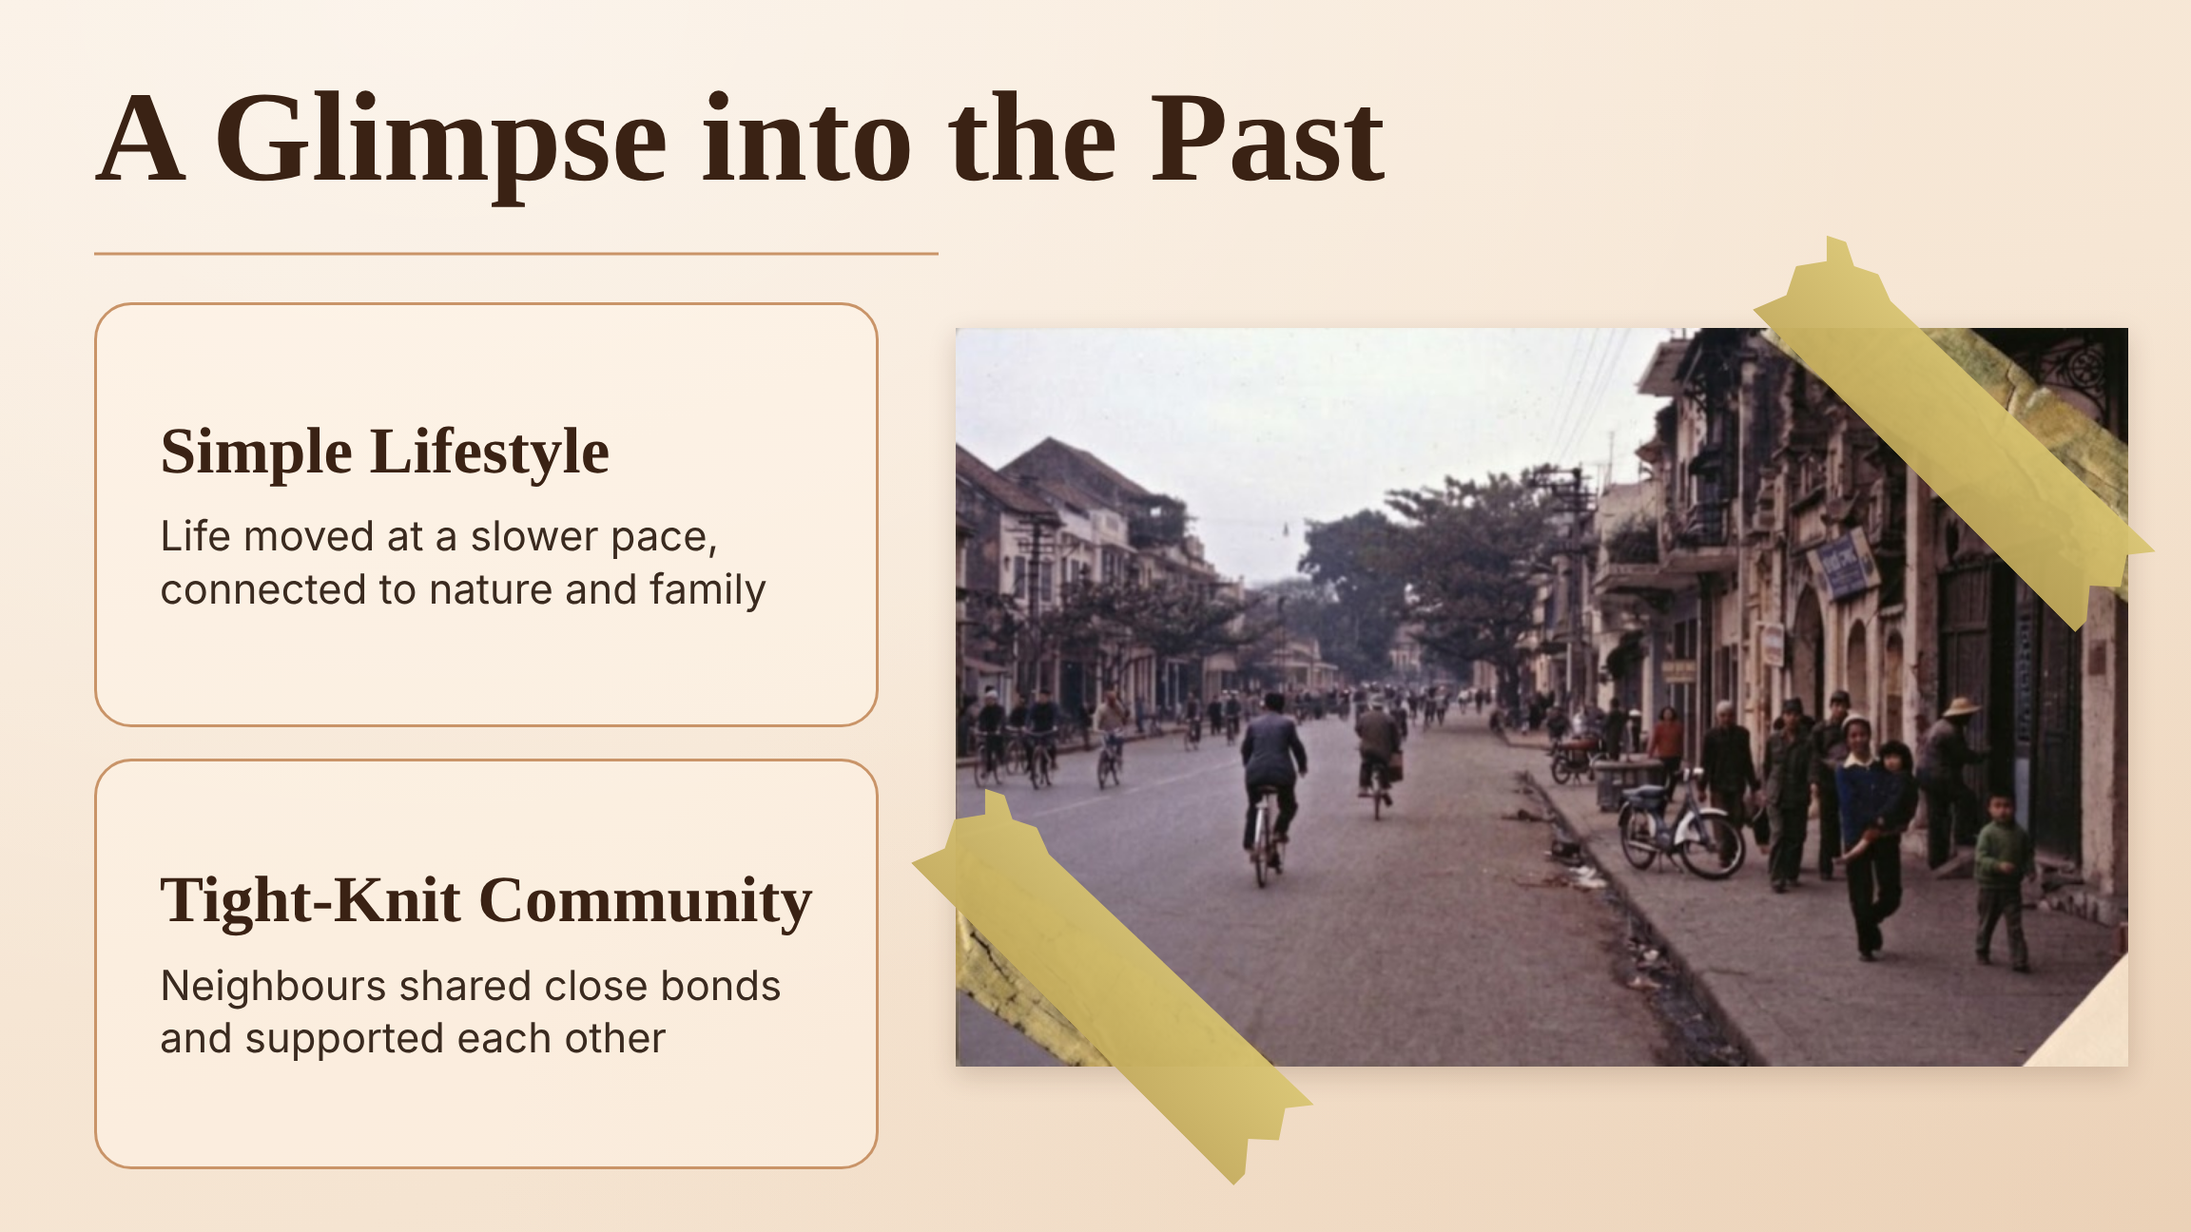
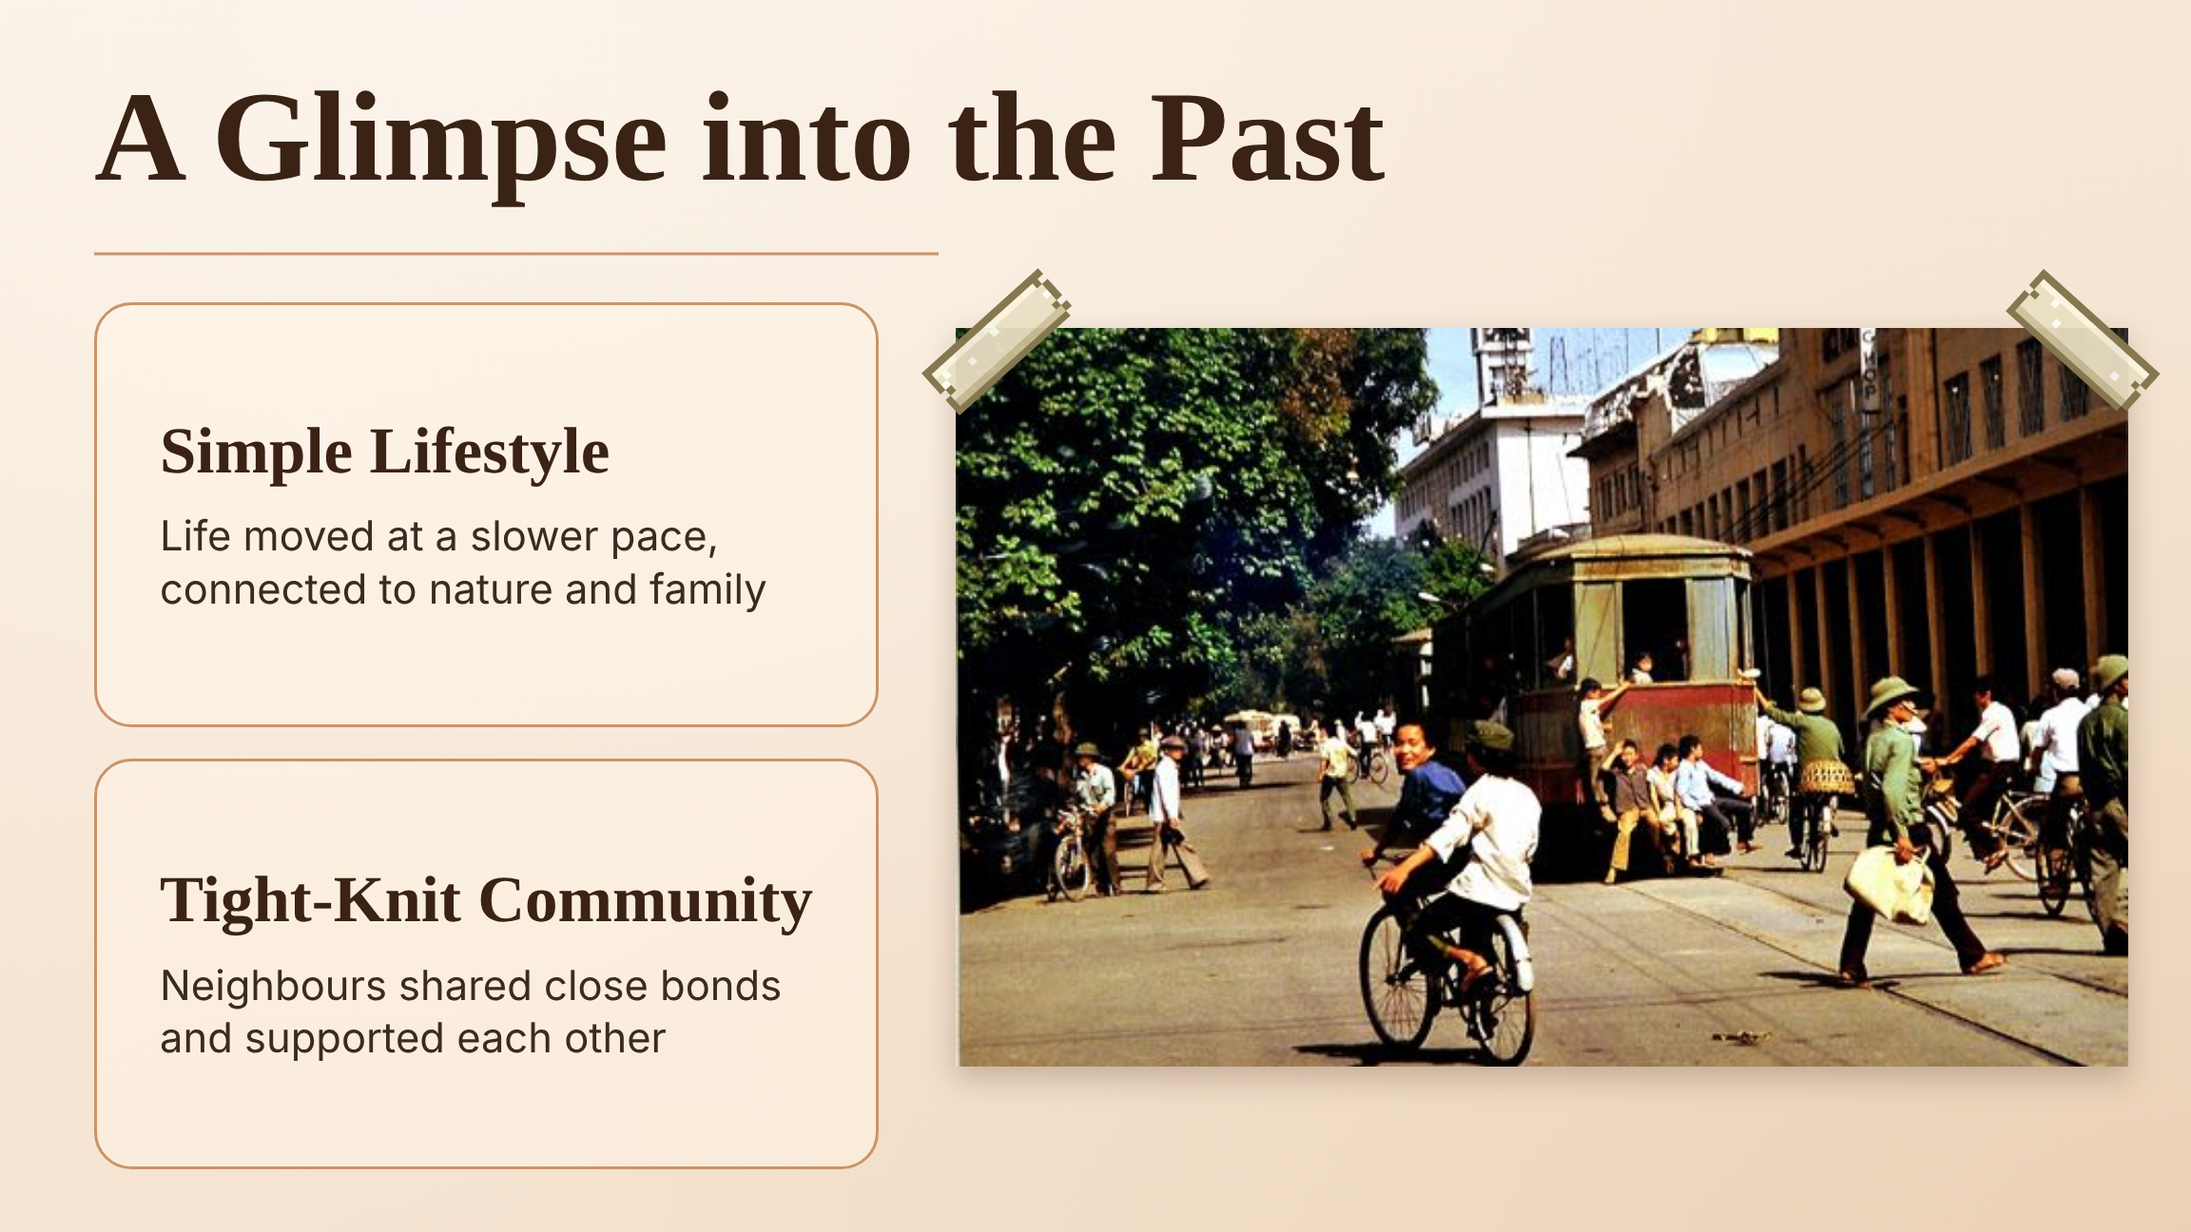
Rework slide 3: tram photo, two pixel tapes, gentle wind sway
Use the clean tram photo (the old crop had tape baked into the image).
The photo hangs from two pixel-art tape pieces at its top corners and
sways slowly sideways with a soft damped spring, pushed by gusts of wind.
Each gust sends pixel wind streaks, swirls and green leaves across the
slide. Wind lines stay off the title band. Tape drawing is shared via
tape.js; the static slide3.png is re-rendered to match, and render.js
gains SLIDES=3,4 to export only some slides.

Claude-Session: https://claude.ai/code/session_01H8rafyWhTAXuL5wghymvJo

diff --git a/slide3-anim.html b/slide3-anim.html
@@ -10,36 +10,33 @@
   <link rel="stylesheet" href="slides.css">
   <style>
     body { background: #1b1412; padding: 16px; }
-    .deck { zoom: var(--zoom); }
-    /* Khung ảnh: xoay quanh điểm treo phía trên (tape giữ). Tape và ảnh cùng nằm trong .pic */
-    .pic { position: absolute; left: 670px; top: 230px; width: 822px; height: 518px; transform-origin: 50% 0; will-change: transform; }
-    .pic .photo { position: absolute; inset: 0; box-shadow: 0 10px 22px rgba(60,30,10,.28); }
-    .pic .photo img { width: 100%; height: 100%; object-fit: cover; display: block; }
-    .ptape { position: absolute; image-rendering: pixelated; transform-origin: 50% 50%; }
-    #tapeTL { left: 26px; top: -20px; }
-    #tapeTR { right: 26px; top: -20px; transform: rotate(38deg); }
-    #tapeBL { left: 6px; top: 470px; transform: rotate(-28deg); }
+    .deck { zoom: var(--zoom); position: relative; }
+    .pic { will-change: transform; }
+    #wind { position: absolute; left: 0; top: 0; width: 1536px; height: 864px; pointer-events: none; z-index: 5; image-rendering: pixelated; }
   </style>
 </head>
 <body>
-<main class="deck" style="position:relative">
+<main class="deck">
   <section class="slide s3" id="slide3">
     <h2 class="title">A Glimpse into the Past</h2>
     <hr class="rule">
     <article class="card c1"><h3>Simple Lifestyle</h3><p>Life moved at a slower pace, connected to nature and family</p></article>
     <article class="card c2"><h3>Tight-Knit Community</h3><p>Neighbours shared close bonds and supported each other</p></article>
 
+    <!-- Ảnh dán bằng 2 miếng keo ở 2 góc trên; gió thổi làm ảnh đung đưa nhẹ -->
     <div class="pic" id="pic">
-      <figure class="photo"><img src="assets/s3-street.jpg" alt="Old street with bicycles"></figure>
-      <canvas class="ptape" id="tapeTL" width="150" height="48"></canvas>
-      <canvas class="ptape" id="tapeTR" width="150" height="48"></canvas>
-      <canvas class="ptape" id="tapeBL" width="150" height="48"></canvas>
+      <figure class="photo"><img src="assets/s3-tram.jpg" alt="Tram and bicycles on an old street"></figure>
+      <canvas class="ptape tl" width="120" height="40"></canvas>
+      <canvas class="ptape tr" width="120" height="40"></canvas>
     </div>
+
+    <canvas id="wind" width="1536" height="864"></canvas>
   </section>
 </main>
 
+<script src="tape.js"></script>
 <script>
-  // Vừa khung màn hình như slides.html
+  // ---------- Khung hiển thị ----------
   const EMBED = location.search.includes('embed');   // chế độ nhúng trong index.html: phủ kín khung
   const fit = () => {
     if (EMBED) {
@@ -50,94 +47,120 @@
     }
     document.documentElement.style.setProperty('--zoom', Math.min(1, (innerWidth - 32) / 1536));
   };
-  if (EMBED) { document.body.style.cssText = 'background:transparent;padding:0;overflow:hidden'; }
+  if (EMBED) document.body.style.cssText = 'background:transparent;padding:0;overflow:hidden';
   addEventListener('resize', fit); fit();
 
-  // ---- Tape kiểu pixel: vẽ bằng ô vuông lớn, mép răng cưa ----
-  function drawPixelTape(cv, seed) {
-    const g = cv.getContext('2d');
-    const W = cv.width, H = cv.height, C = 6;           // C = kích thước 1 pixel
-    let r = seed;
-    const rnd = () => (r = (r * 16807) % 2147483647) / 2147483647;
-    g.clearRect(0, 0, W, H);
-    for (let y = 0; y < H; y += C) {
-      const edge = 1 + Math.floor(rnd() * 2);             // mép răng cưa ngẫu nhiên
-      for (let x = C * edge; x < W - C * edge; x += C) {
-        const band = y < H * 0.3 ? '#e9d9a0' : (y > H * 0.7 ? '#b89a5a' : '#d4b878');
-        g.fillStyle = band;
-        g.globalAlpha = 0.9;
-        g.fillRect(x, y, C, C);
-      }
+  // ---------- Gió: lịch các cơn gió ----------
+  const FIRST_GUST = 1.2, PERIOD = 6.0, GUST_LEN = 3.2;
+  // độ mạnh cơn gió 0..1 theo thời gian t (giây)
+  function gust(t) {
+    if (t < FIRST_GUST) return 0;
+    const u = ((t - FIRST_GUST) % PERIOD) / GUST_LEN;
+    return u >= 1 ? 0 : Math.pow(Math.sin(Math.PI * u), 2);
+  }
+  const gustIndex = (t) => Math.floor((t - FIRST_GUST) / PERIOD);
+
+  // ---------- Ảnh: dao động nhẹ (lò xo giảm chấn), gió thổi từ trái sang phải ----------
+  const pic = document.getElementById('pic');
+  let theta = 0, omega = 0;              // radian
+  const K = 9, DAMP = 2.8, PUSH = 0.36;  // lò xo mềm, ma sát vừa: đung đưa chậm, ít dội lại (đỉnh ≈ 2 độ)
+
+  // ---------- Pixel: lá bay + vệt gió ----------
+  const wind = document.getElementById('wind'), g = wind.getContext('2d');
+  const CELL = 6;
+  const LEAF = [
+    "......RRRR......",
+    "....RRLLLGRR....",
+    "..RRLLLGGGGGRR..",
+    "RRDDDDDDDDDDGRRR",
+    "..RRGGGGGGGGRR..",
+    "....RRGGGGRR....",
+    "......RRRR......"
+  ];
+  const LEAF_COL = { R: '#1d5a2c', L: '#8fe07a', G: '#3fb04f', D: '#2c8a3c' };
+  function drawLeaf(x, y, ang, s, a) {
+    g.save(); g.globalAlpha = a; g.translate(x, y); g.rotate(ang);
+    const w = LEAF[0].length, h = LEAF.length;
+    for (let r = 0; r < h; r++) for (let c = 0; c < w; c++) {
+      const col = LEAF_COL[LEAF[r][c]]; if (!col) continue;
+      g.fillStyle = col; g.fillRect((c - w / 2) * CELL * s, (r - h / 2) * CELL * s, CELL * s + .5, CELL * s + .5);
+    }
+    g.restore();
+  }
+
+  // Vệt gió: dải điểm trắng chạy dọc theo một đường cong (có bóng xanh nhạt để thấy được trên nền be)
+  function drawStreak(s, t) {
+    const age = t - s.t0; if (age < 0 || age > s.life) return;
+    const p = age / s.life, head = p * (s.len + s.tail), tail = head - s.tail;
+    const fade = Math.sin(Math.PI * p);
+    for (let d = Math.max(0, tail); d <= Math.min(head, s.len); d += CELL * 1.0) {
+      const x = s.x0 + d, y = s.y0 + Math.sin(d / s.wl + s.ph) * s.amp + d * s.slope;
+      const px = Math.round(x / CELL) * CELL, py = Math.round(y / CELL) * CELL;
+      g.globalAlpha = fade * 0.75; g.fillStyle = '#8fb4d6'; g.fillRect(px, py + CELL, CELL, CELL * 0.6);
+      g.globalAlpha = fade * 0.95; g.fillStyle = '#ffffff'; g.fillRect(px, py, CELL, CELL);
+    }
+  }
+  // Xoáy gió nhỏ (đường xoắn ốc pixel)
+  function drawSwirl(s, t) {
+    const age = t - s.t0; if (age < 0 || age > s.life) return;
+    const p = age / s.life, fade = Math.sin(Math.PI * p), cx = s.x + age * s.drift, cy = s.y;
+    const turns = Math.min(1, p * 2) * 2.4 * Math.PI * 2;
+    for (let a = 0; a < turns; a += 0.28) {
+      const r = 6 + a * 4.2, x = cx + Math.cos(a) * r, y = cy + Math.sin(a) * r * 0.85;
+      const px = Math.round(x / CELL) * CELL, py = Math.round(y / CELL) * CELL;
+      g.globalAlpha = fade * 0.75; g.fillStyle = '#8fb4d6'; g.fillRect(px, py + CELL, CELL, CELL * 0.6);
+      g.globalAlpha = fade * 0.95; g.fillStyle = '#fff'; g.fillRect(px, py, CELL, CELL);
+    }
+  }
+
+  const rnd = (a, b) => a + Math.random() * (b - a);
+  let leaves = [], streaks = [], swirls = [], lastSpawnIdx = -1, lastT = 0;
+
+  // Mỗi cơn gió sinh ra vệt gió, xoáy và lá bay ngang màn hình (đủ để thấy rõ nhưng không rối)
+  function spawnGust(t) {
+    for (let i = 0; i < 6; i++) {
+      streaks.push({ t0: t + rnd(0, 1.1), life: rnd(1.1, 1.7), x0: rnd(-120, 500), y0: rnd(210, 800), len: rnd(520, 900),
+                     tail: rnd(260, 420), wl: rnd(80, 150), ph: rnd(0, 6.3), amp: rnd(8, 22), slope: rnd(-0.03, 0.05) });
+    }
+    for (let i = 0; i < 2; i++) swirls.push({ t0: t + rnd(0.3, 1.4), life: rnd(1.4, 1.9), x: rnd(150, 1300), y: rnd(230, 780), drift: rnd(60, 140) });
+    const n = 4 + Math.floor(Math.random() * 3);
+    for (let i = 0; i < n; i++) {
+      leaves.push({ t0: t + rnd(0, 1.5), x0: -80, y0: rnd(200, 760), v: rnd(420, 640), amp: rnd(30, 70), f: rnd(2.2, 3.6),
+                    ph: rnd(0, 6.3), s: rnd(0.8, 1.35), spin: rnd(-1.2, 1.2), a: rnd(-0.3, 0.3) });
+    }
+  }
+
+  const t0 = performance.now();
+  function frame(now) {
+    const t = (now - t0) / 1000, dt = Math.min(0.033, t - lastT); lastT = t;
+
+    // vật lý ảnh: lực gió đẩy sang phải (xoay ngược chiều kim đồng hồ), ảnh đàn hồi quay về
+    const breeze = 0.004 * Math.sin(t * 1.1);                       // gió nhẹ liên tục
+    const alpha = -K * theta - DAMP * omega - PUSH * gust(t);
+    omega += alpha * dt; theta += omega * dt;
+    const a = theta + breeze;
+    pic.style.transform = `translateX(${(-a * 90).toFixed(2)}px) rotate(${(a * 180 / Math.PI).toFixed(3)}deg)`;
+
+    // sinh hiệu ứng khi bắt đầu cơn gió mới
+    const gi = gustIndex(t);
+    if (t >= FIRST_GUST && gi !== lastSpawnIdx) { lastSpawnIdx = gi; spawnGust(t); }
+
+    // vẽ lớp pixel
+    g.clearRect(0, 0, 1536, 864);
+    streaks = streaks.filter(s => t - s.t0 <= s.life); streaks.forEach(s => drawStreak(s, t));
+    swirls = swirls.filter(s => t - s.t0 <= s.life); swirls.forEach(s => drawSwirl(s, t));
+    leaves = leaves.filter(l => (t - l.t0) * l.v + l.x0 < 1700);
+    for (const l of leaves) {
+      const age = t - l.t0; if (age < 0) continue;
+      const x = l.x0 + age * l.v, y = l.y0 + Math.sin(age * l.f + l.ph) * l.amp;
+      const ang = l.a + Math.sin(age * l.f + l.ph + 1.2) * 0.55 + age * l.spin * 0.4;
+      const edge = Math.min(1, x / 120, (1700 - x) / 120);
+      drawLeaf(Math.round(x / 2) * 2, Math.round(y / 2) * 2, ang, l.s, Math.max(0, edge));
     }
     g.globalAlpha = 1;
-    // vài pixel sáng và vết nhăn
-    for (let i = 0; i < 9; i++) {
-      g.fillStyle = 'rgba(255,255,240,0.55)';
-      g.fillRect(Math.floor(rnd() * (W / C)) * C, Math.floor(rnd() * (H / C)) * C, C, C);
-    }
-    // viền đen pixel mỏng phía trên và dưới
-    g.fillStyle = 'rgba(70,50,20,0.35)';
-    for (let x = 0; x < W; x += C) { g.fillRect(x, 0, C, 2); g.fillRect(x, H - 2, C, 2); }
+    requestAnimationFrame(frame);
   }
-  drawPixelTape(document.getElementById('tapeTL'), 11);
-  drawPixelTape(document.getElementById('tapeTR'), 23);
-  drawPixelTape(document.getElementById('tapeBL'), 37);
-
-  // ---- Vật lý: con lắc có gió và gió giật ----
-  const pic = document.getElementById('pic');
-  const tapeTL = document.getElementById('tapeTL');
-  const tapeBL = document.getElementById('tapeBL');
-  const TAPE_W = 150 * 1.6;            // chiều dài hiển thị của tape (px slide)
-  let theta = 0, omega = 0, drop = 0, dropV = 0;   // theta/omega: radian
-  let released = false, peelStart = 0, lastGust = 0, tPrev = performance.now(), t0 = performance.now();
-  const CYCLE_MS = 16000;
-
-  function loop(now) {
-    const dt = Math.min(0.033, (now - tPrev) / 1000); tPrev = now;
-    const t = (now - t0) / 1000;
-    if (now - t0 > CYCLE_MS) { reset(now); }
-
-    // gió: sóng chậm + rung nhanh + gió giật ngẫu nhiên
-    const wind = 3.0 * Math.sin(t * 0.9) + 1.4 * Math.sin(t * 2.7 + 1.3);
-    if (now - lastGust > 3200 && Math.random() < 0.05) { omega += (Math.random() < 0.5 ? -1 : 1) * 0.9; lastGust = now; }
-
-    // con lắc: lực kéo về, tắt dần, cộng gió
-    const k = released ? 4.2 : 9.0;
-    const damp = released ? 1.0 : 1.6;
-    // theta, omega tính bằng radian; wind là gia tốc góc (rad/s^2)
-    const alpha = -k * Math.sin(theta) - damp * omega + (wind * 0.02);
-    omega += alpha * dt;
-    theta += omega * dt;
-    theta = Math.max(-0.31, Math.min(0.31, theta));   // giới hạn ±18 độ
-
-    // tape góc trên trái bị bóc từng bước (pixel steps)
-    if (!released && t > 4.0) {
-      const p = Math.min(1, (t - 4.0) / 2.6);
-      const step = Math.floor(p * 8) / 8;
-      tapeTL.style.transform = `rotate(${step * 70}deg) scale(${1 - step * 0.5})`;
-      tapeTL.style.opacity = String(1 - step * 0.9);
-      if (step >= 1) { released = true; omega += 1.2; }
-    }
-
-    // sau khi bóc, khung sa xuống và đung đưa
-    if (released) {
-      dropV += (60 - drop * 9) * dt * 0.5;
-      drop += dropV * dt;
-      drop = Math.max(0, Math.min(24, drop));
-      tapeBL.style.transform = `rotate(${-28 + Math.sin(t * 6) * 4}deg)`;
-    }
-
-    pic.style.transform = `translateY(${drop.toFixed(2)}px) rotate(${(theta * 180 / Math.PI + (released ? 6 : 0)).toFixed(2)}deg)`;
-    requestAnimationFrame(loop);
-  }
-
-  function reset(now) {
-    t0 = now; theta = 0; omega = 0; drop = 0; dropV = 0; released = false; lastGust = 0;
-    tapeTL.style.transform = ''; tapeTL.style.opacity = '1';
-    tapeBL.style.transform = '';
-  }
-
-  requestAnimationFrame(loop);
+  requestAnimationFrame(frame);
 </script>
 </body>
 </html>

diff --git a/tape.js b/tape.js
@@ -1,0 +1,24 @@
+// Vẽ miếng băng keo kiểu pixel lên mọi <canvas class="ptape"> (dùng chung cho slides.html và slide3-anim.html)
+function drawPixelTape(cv, seed) {
+  const g = cv.getContext('2d'), C = 5, cols = cv.width / C, rows = cv.height / C;
+  let r = seed || 7;
+  const rnd = () => (r = (r * 16807) % 2147483647) / 2147483647;
+  g.clearRect(0, 0, cv.width, cv.height);
+  for (let y = 0; y < rows; y++) {
+    const cutL = 1 + Math.floor(rnd() * 2), cutR = 1 + Math.floor(rnd() * 2);   // đầu keo răng cưa
+    for (let x = cutL; x < cols - cutR; x++) {
+      const edge = y === 0 || y === rows - 1 || x === cutL || x === cols - cutR - 1;
+      let col = '#e9dfc2';                                  // thân keo
+      if (y === 1) col = '#faf4de';                         // mép sáng
+      else if (y >= rows - 2) col = '#cdbf99';              // mép tối
+      else if (rnd() < 0.06) col = '#fffdf2';               // đốm sáng
+      if (edge) col = '#85774f';                            // viền pixel
+      g.fillStyle = col;
+      g.globalAlpha = edge ? 1 : 0.94;
+      g.fillRect(x * C, y * C, C, C);
+    }
+  }
+  g.globalAlpha = 1;
+}
+function drawAllPixelTapes() { document.querySelectorAll('.ptape').forEach((c, i) => drawPixelTape(c, 11 + i * 12)); }
+if (document.readyState === 'loading') document.addEventListener('DOMContentLoaded', drawAllPixelTapes); else drawAllPixelTapes();

diff --git a/slides.html b/slides.html
@@ -55,8 +55,11 @@
     <hr class="rule">
     <article class="card c1"><h3>Simple Lifestyle</h3><p>Life moved at a slower pace, connected to nature and family</p></article>
     <article class="card c2"><h3>Tight-Knit Community</h3><p>Neighbours shared close bonds and supported each other</p></article>
-    <figure class="photo"><img src="assets/s3-street.jpg" alt="Old street with bicycles"></figure>
-    <i class="tape t-tr"></i><i class="tape t-bl"></i>
+    <div class="pic">
+      <figure class="photo"><img src="assets/s3-tram.jpg" alt="Tram and bicycles on an old street"></figure>
+      <canvas class="ptape tl" width="120" height="40"></canvas>
+      <canvas class="ptape tr" width="120" height="40"></canvas>
+    </div>
   </section>
 
   <!-- 4. How People Moved Around -->
@@ -133,6 +136,7 @@
   </section>
 
 </main>
+<script src="tape.js"></script>
 <script>
   // Xem trên màn hình nhỏ: thu nhỏ slide cho vừa chiều ngang. Khi xuất ảnh (?render) thì giữ nguyên cỡ 1536x864.
   if (!location.search.includes('render')) {

diff --git a/slides.css b/slides.css
@@ -62,10 +62,11 @@ img.photo { object-fit: cover; }
 .s3 .title { top: 50px; font-size: 90px; }  .s3 .rule { top: 177px; right: auto; width: 592px; }
 .s3 .c1 { left: 66px; top: 212px; width: 550px; height: 298px; }
 .s3 .c2 { left: 66px; top: 532px; width: 550px; height: 288px; }
-.s3 .photo { left: 670px; top: 230px; width: 822px; height: 518px; }
-.s3 .t-tr { left: 1210px; top: 262px; transform: rotate(45deg); }
-.s3 .t-bl { left: 620px;  top: 650px; transform: rotate(45deg); }
-.s3 .t-tr, .s3 .t-bl { width: 320px; height: 80px; }
+.s3 .pic { left: 670px; top: 230px; width: 822px; height: 518px; transform-origin: 50% 0; }
+.pic .photo { position: absolute; inset: 0; box-shadow: 0 8px 20px rgba(60,30,10,.25); }
+.ptape { position: absolute; image-rendering: pixelated; width: 120px; height: 40px; }
+.ptape.tl { left: -30px; top: -10px; transform: rotate(-42deg); }
+.ptape.tr { left: 730px; top: -10px; transform: rotate(42deg); }
 
 .s4 .title { top: 62px; font-size: 94px; left: 62px; }
 .s4 .rule { top: 184px; left: 238px; right: 54px; }

diff --git a/render.js b/render.js
@@ -1,6 +1,7 @@
 // Xuất 10 slide từ slides.html ra slide1.png ... slide10.png (dùng cho index.html).
 // Cách chạy:  npm i playwright && npx playwright install chromium && node render.js
 // Tuỳ chọn:   SCALE=2 node render.js   (độ nét; mặc định 1.5 => 2304x1296)
+//             SLIDES=3,4 node render.js (chỉ xuất một vài slide)
 const { chromium } = require('playwright');
 const path = require('path');
 
@@ -11,7 +12,9 @@ const path = require('path');
   await page.goto('file://' + path.join(__dirname, 'slides.html') + '?render', { waitUntil: 'load' });
   await page.evaluate(() => document.fonts.ready);
   await page.waitForTimeout(500);
+  const only = process.env.SLIDES ? process.env.SLIDES.split(',').map(Number) : null;
   for (let i = 1; i <= 10; i++) {
+    if (only && !only.includes(i)) continue;
     await page.locator('#slide' + i).screenshot({ path: path.join(__dirname, `slide${i}.png`) });
     console.log('slide' + i + '.png');
   }
